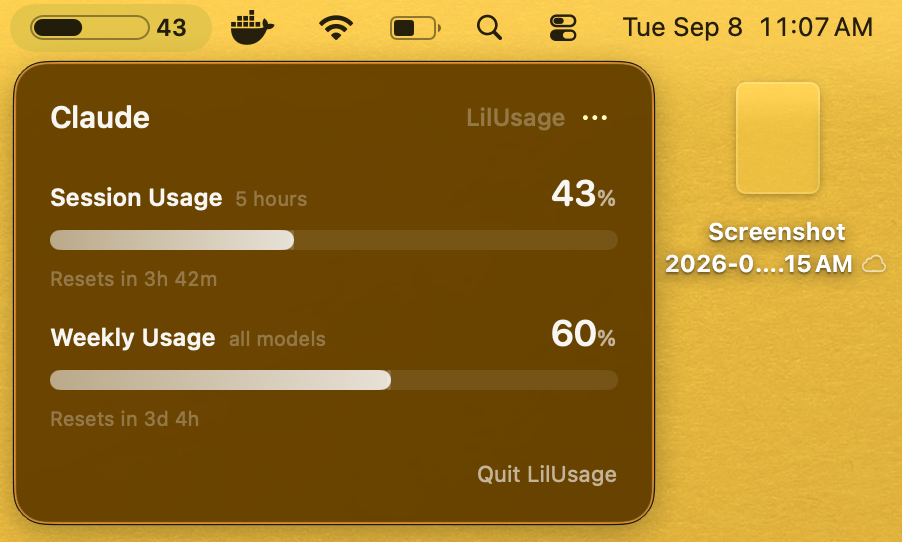
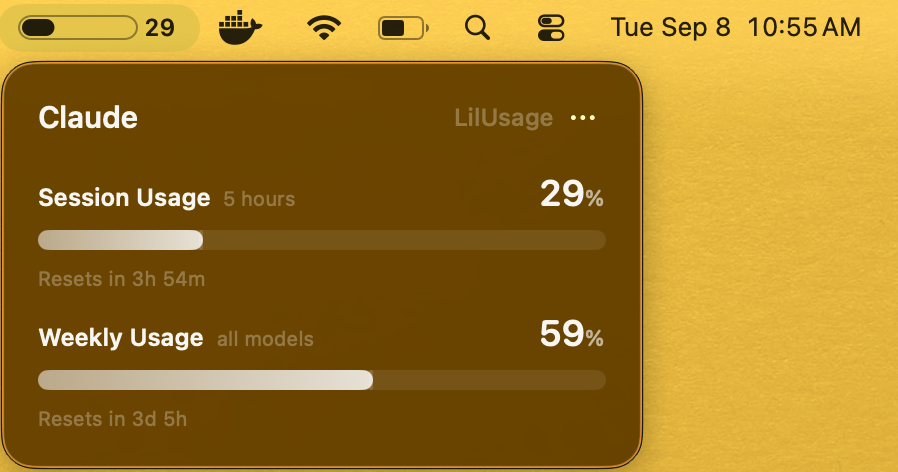
reordered

diff --git a/lilusage/index.html b/lilusage/index.html
@@ -1616,15 +1616,15 @@
         </div>
         <div class="setup-steps">
             <div class="setup-step fade-in stagger-1">
-                <div class="step-number">1</div>
+                <div class="step-number">2</div>
                 <div class="step-content">
                     <h3>Sign In to Claude Code</h3>
                     <p>Run <code>claude</code> in a terminal, then <code>/login</code>. If you already use it, you're done here.</p>
-                    <img src="screenshots/claude-code-login.png" alt="Claude Code login prompt in the terminal" class="shot shot-narrow">
+                    <img src="screenshots/sign-in.png" alt="Claude Code login prompt in the terminal" class="shot shot-narrow">
                 </div>
             </div>
             <div class="setup-step fade-in stagger-2">
-                <div class="step-number">2</div>
+                <div class="step-number">1</div>
                 <div class="step-content">
                     <h3>Install and Allow Access</h3>
                     <p>Drag LilUsage to Applications and open it. It explains itself first, then macOS asks for your Claude Code credentials &mdash; choose <strong>Always Allow</strong>.</p>
@@ -1639,7 +1639,7 @@
                 <div class="step-content">
                     <h3>Read the Meter</h3>
                     <p>The bar fills within seconds. If it ever says <strong>Sign in</strong>, your Claude Code session expired &mdash; the app walks you through it.</p>
-                    <img src="screenshots/sign-in.png" alt="LilUsage sign-in instructions when the Claude Code session expires" class="shot shot-narrow">
+                    <img src="screenshots/menu-panel.png" alt="LilUsage sign-in instructions when the Claude Code session expires" class="shot shot-narrow">
                 </div>
             </div>
         </div>
